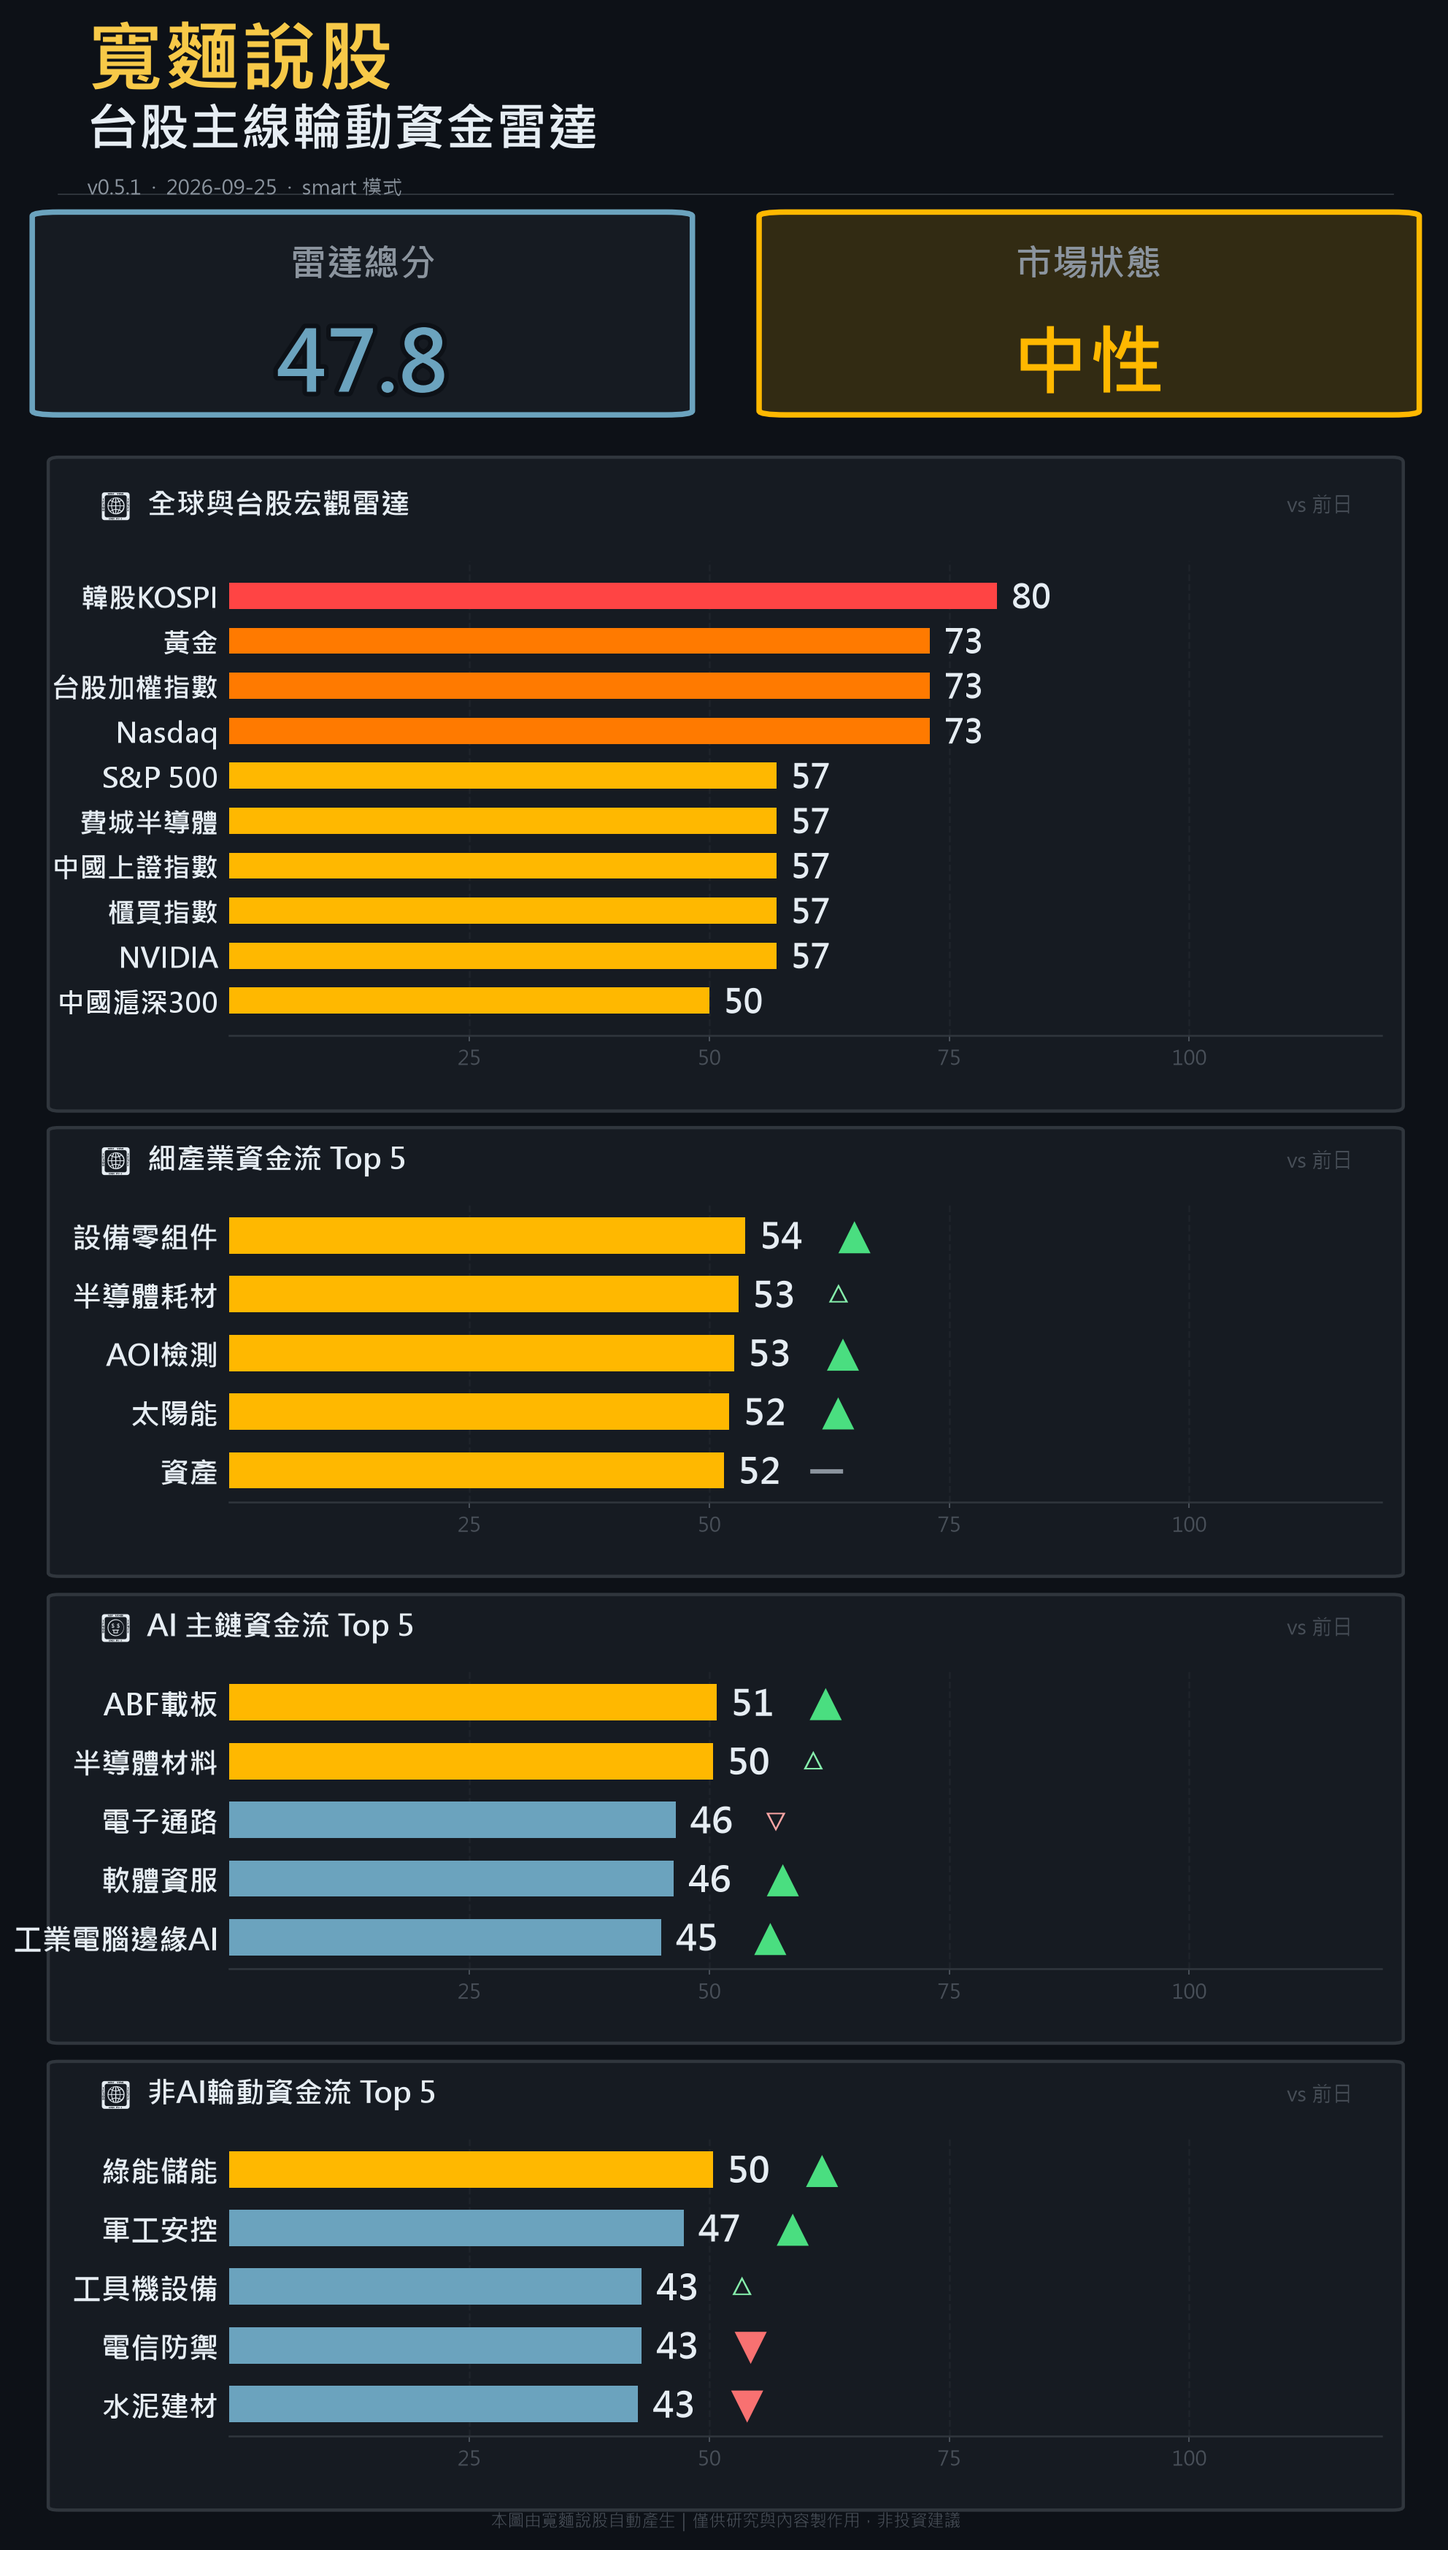
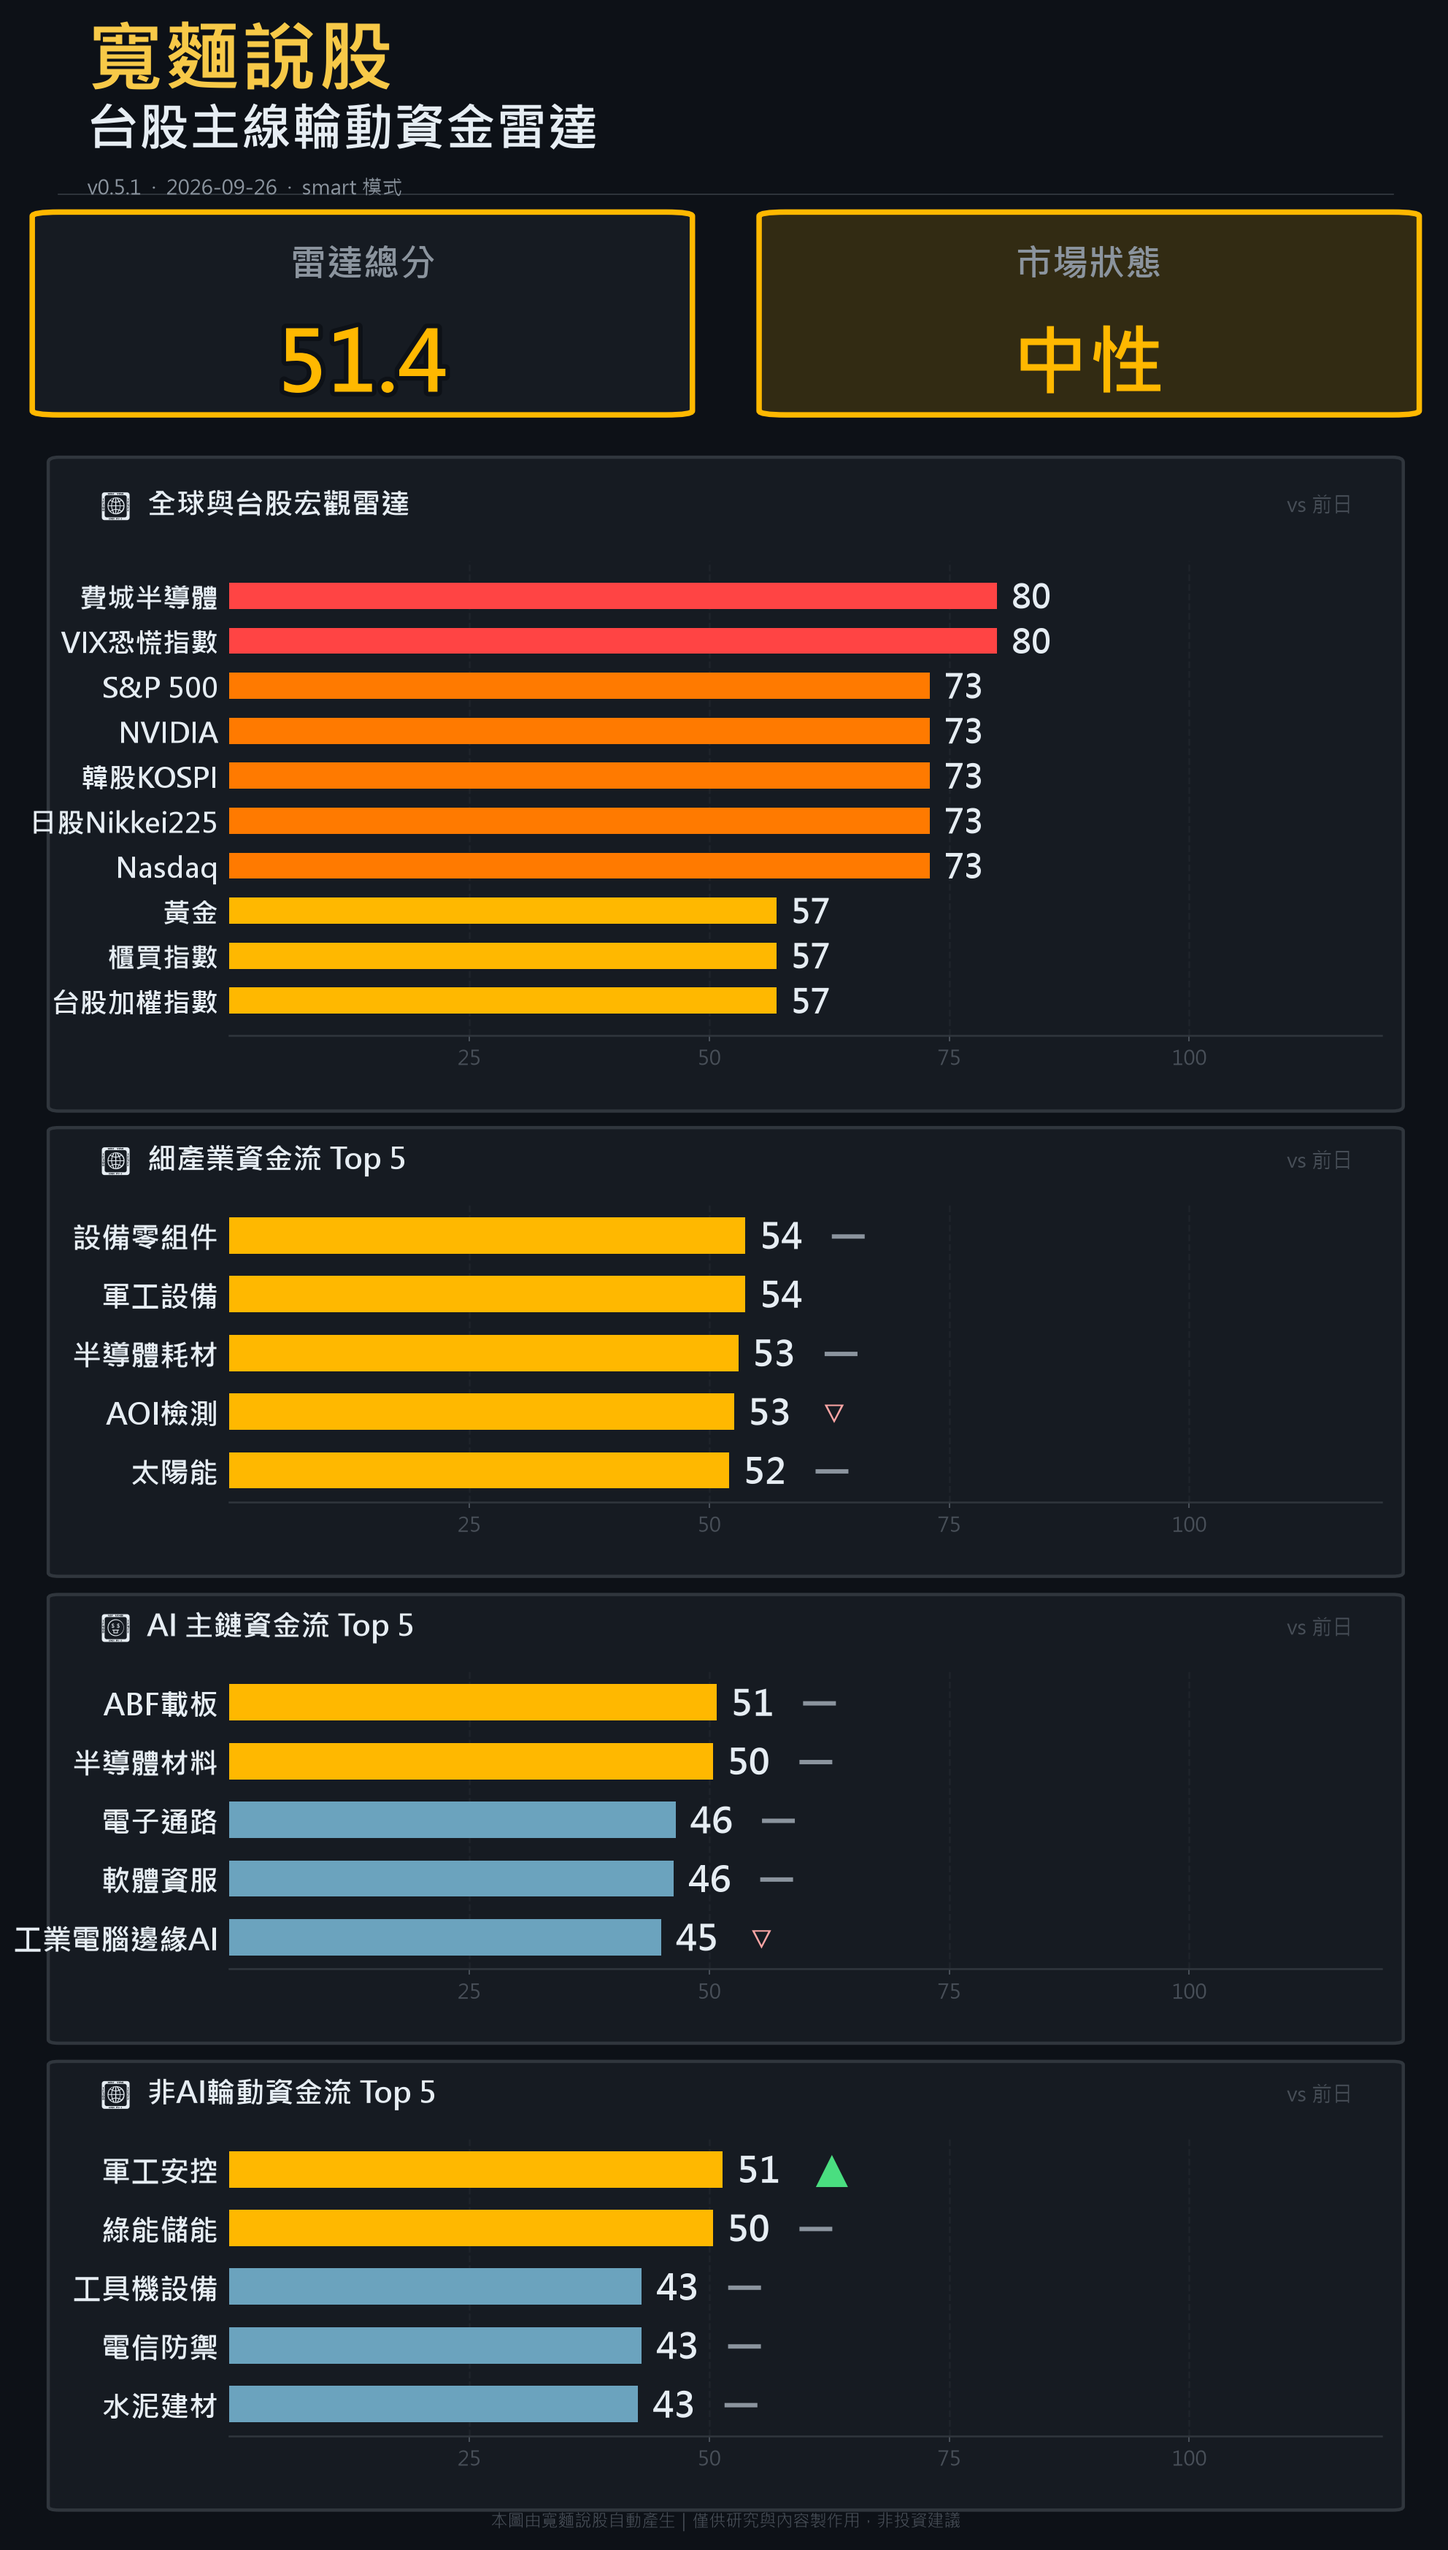
auto update radar chart 週六 2026/09/26  7:28:23.45

diff --git a/index.html b/index.html
@@ -122,7 +122,7 @@
     <section class="hero">
       <div class="brand">寬麵說股｜股海說書人</div>
       <h1>台股主線輪動資金雷達</h1>
-      <div class="updated">最後更新：2026-09-25 07:28:14</div>
+      <div class="updated">最後更新：2026-09-26 07:28:23</div>
       <div class="notice">
         每日追蹤 AI 主鏈、非AI輪動、宏觀風險與族群資金流。<br>
         本圖卡僅供研究與內容製作用，非投資建議。
@@ -130,11 +130,11 @@
     </section>
 
     <section class="dashboard-wrap">
-      <img class="dashboard" src="dashboard.png?v=20260925" alt="寬麵說股 台股主線輪動資金雷達">
+      <img class="dashboard" src="dashboard.png?v=20260926" alt="寬麵說股 台股主線輪動資金雷達">
     </section>
 
     <div class="actions">
-      <a class="btn" href="dashboard.png?v=20260925" target="_blank">開啟原圖</a>
+      <a class="btn" href="dashboard.png?v=20260926" target="_blank">開啟原圖</a>
     </div>
 
     <div class="footer">
